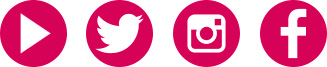
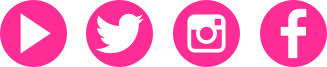
ajustes gerais nas paginas

diff --git a/style.css b/style.css
@@ -1,5 +1,5 @@
 /*
-Theme Name: teraptantricas
+Theme Name: tantricassp
 Theme URI: http://underscores.me/
 Author: Underscores.me
 Author URI: http://underscores.me/
@@ -40,7 +40,7 @@ Nicolas Gallagher and Jonathan Neal http://necolas.github.com/normalize.css/
     font-family: Helvetica Neue,Helvetica,Arial,sans-serif;
     font-size: 26px;
     font-weight: bold;
-    color: #b70456; }
+    color: #8f0351; }
   #page h2 {
     font-family: Helvetica Neue,Helvetica,Arial,sans-serif;
     margin: 0;
@@ -90,7 +90,7 @@ Nicolas Gallagher and Jonathan Neal http://necolas.github.com/normalize.css/
     -webkit-border-radius: 6px;
     -moz-border-radius: 6px;
     border-radius: 6px;
-    background-color: #b70456;
+    background-color: #8f0351;
     padding: 10px 45px;
     color: white;
     display: inline-block; }
@@ -222,7 +222,7 @@ Nicolas Gallagher and Jonathan Neal http://necolas.github.com/normalize.css/
           #page #header div.header-logo nav ul.menu-principal li a:hover {
             text-decoration: none; }
         #page #header div.header-logo nav ul.menu-principal li:hover {
-          background-color: #f2f1df; }
+          border-bottom: 2px solid #fe3191; }
   @media (max-width: 991px) {
     #page div.redes {
       text-align: left !important;
@@ -295,7 +295,7 @@ Nicolas Gallagher and Jonathan Neal http://necolas.github.com/normalize.css/
       border: 5px solid #e8edf1;
       margin: 5px; }
   #page div#content section#maps {
-    background-color: #b70456;
+    background-color: #8f0351;
     color: white; }
     #page div#content section#maps .detalhes-maps {
       padding: 25px 0; }
@@ -367,6 +367,8 @@ Nicolas Gallagher and Jonathan Neal http://necolas.github.com/normalize.css/
   #page div#content section#redes-bot {
     padding: 80px 0;
     background-color: white; }
+    #page div#content section#redes-bot h2 {
+      color: #8f0351; }
     #page div#content section#redes-bot .redes_sociais_bot {
       margin-bottom: 5px;
       height: 67px;
@@ -423,7 +425,7 @@ Nicolas Gallagher and Jonathan Neal http://necolas.github.com/normalize.css/
     text-align: left; }
     #page #footer div.footer-content {
       padding: 50px 0;
-      background-color: #b70456;
+      background-color: #8f0351;
       color: white; }
       #page #footer div.footer-content ul {
         padding: 0;

diff --git a/style.scss b/style.scss
@@ -1,5 +1,5 @@
 /*
-Theme Name: teraptantricas
+Theme Name: tantricassp
 Theme URI: http://underscores.me/
 Author: Underscores.me
 Author URI: http://underscores.me/
@@ -50,7 +50,7 @@ Nicolas Gallagher and Jonathan Neal http://necolas.github.com/normalize.css/
 		font-family: Helvetica Neue,Helvetica,Arial,sans-serif;
 		font-size: 26px;
 		font-weight: bold;
-		color:#b70456;
+		color:#8f0351;
 	}
 
 
@@ -117,7 +117,7 @@ Nicolas Gallagher and Jonathan Neal http://necolas.github.com/normalize.css/
 		-webkit-border-radius: 6px; 
 		-moz-border-radius: 6px; 
 		border-radius: 6px; 
-		background-color:#b70456;
+		background-color:#8f0351;
 		padding:10px 45px;
 		color:white;
 		display:inline-block		

diff --git a/_content.scss b/_content.scss
@@ -90,7 +90,7 @@ div#content{
 	}
 
 	section#maps{
-		background-color:#b70456;
+		background-color:#8f0351;
 		color: white;
 
 		.detalhes-maps{
@@ -202,6 +202,10 @@ div#content{
 	section#redes-bot{
 		padding:80px 0;	
 		background-color:white;
+
+		h2{
+			color:#8f0351;	
+		}
 	
 		.redes_sociais_bot{
 			margin-bottom: 5px;

diff --git a/_header.scss b/_header.scss
@@ -96,9 +96,10 @@
 					}
 				}
 
+
 				li:hover{
 
-					background-color:#f2f1df;
+					border-bottom:2px solid #fe3191;
 				}
     		}
     	}

diff --git a/_footer.scss b/_footer.scss
@@ -3,7 +3,7 @@
 
 	div.footer-content{
 		padding:50px 0;
-		background-color:#b70456;
+		background-color:#8f0351;
 		color:white;
 
 		ul{

diff --git a/index.php b/index.php
@@ -10,6 +10,43 @@ get_header(); ?>
 		</div>
 	</section>
 
+	<section id="sobre-home">
+		<div class="container">
+			<div class="row">
+				<div class="col-md-12">
+					<h1 class="small">Massagem Tântrica em São Paulo</h1>
+					<h2>Venha fazer uma Massagem Tântrica com as melhores terapeutas de São Paulo</h2>
+				</div>
+			</div> <br>
+			<div class="row">
+				<div class="col-md-6 text-left">
+					<p>
+						A Massagem Tântrica traz vários benefícios para o organismo, combate o stresse,  
+auxilia no tratamento de dores musculares e traz um relaxamento profundo, além 
+de aumentar a disposição e o vigor físico.
+					</p>
+					<p>
+						Nossas terapeutas tântricas aplicam tanto técnicas milenares da Massagem 
+Tântrica como cada uma desenvolveu uma técnica de massagem personalizada e 
+especial para cada cliente.
+					</p>
+				</div>
+				<div class="col-md-6 text-left">
+					<p>
+						Todas as nossas terapeutas tântricas são habilitadas e treinadas nas mais 
+diversas técnicas orientais e ocidentais da Massagem Tântrica, tudo isso para 
+tornar sua sessão de massagem mais agradável e prazerosa.
+					</p>
+					<p>
+						A Massgem Tântrica é uma técnica ao mesmo tempo sensual e muito prazerosa. 
+Buscamos despertar para o prazer através do toque em harmonia com os cinco 
+sentidos, tato, olfato, paladar, audição, visão e ainda despertar outros sentidos.
+					</p>
+				</div>
+			</div>
+		</div>
+	</section>
+
 	<section id="servicos">
 		<div class="container">
 			<?php
@@ -53,38 +90,36 @@ get_header(); ?>
 		<div class="container">
 			<div class="row">
 				<div class="col-md-7 text-left">
-					<h2 class="amarelo">Terapeutas Tântricas</h2>
-					<p class="">A Terapeutas Tântricas é um espaço terapêutico que tem a Massagem Tântrica como 
-						a sua principal ferramenta para a busca da evolução espiritual.<br>
-						Com uma equipe cuidadosamente selecionada, nos destacamos pelo profissionalismo 
-						e pela alta qualidade no atendimento.<br>
-						Seja bem vindo(a)! 
+					<h2 class="amarelo">Massagem Tântrica em São Paulo</h2>
+					<p class="">Não somos uma clínica ou casa de massagem!<br>
+						Nós somos profissionais autônomas especializadas em Massagem Tântrica 
+sem nenhuma conotação sexual.<br>
+						Atendemos homens, mulheres e casais!
 					</p>
 					<ul>
-						<li>Localizada no centro de São Paulo</li>
-						<li>Terapeutas especialistas com vivência tântrica</li>
-						<li>Ambiente aconchegante e discreto</li>
-						<li>Próximo ao metrô Sé</li>
+						<li>Massagem Tântrica</li>
+						<li>Massagem Relaxante</li>
+						<li>As melhores terapeutas tântricas de São Paulo</li>
+						<li>Massagem personalizada e especial para cada cliente</li>
 					</ul>
-					<a href="<?php echo esc_url( home_url( '/' ) )."fotos"; ?>" class="btn-amarelo">CONFIRA</a>
+					<a href="<?php echo esc_url( home_url( '/' ) )."fotos"; ?>" class="btn-amarelo">CONTATO</a>
 				</div>
 				<div class="col-md-5 text-left">
-					<h4>Fotos</h4>
 					
 					<div class="row">
 						<div class="col-md-6">
-							<img class="e-claro img-responsive" src="<?php echo dirname( get_bloginfo('stylesheet_url'))."/images/banner1.jpg"; ?>"/>
+							<img class="e-claro img-responsive" src="<?php echo dirname( get_bloginfo('stylesheet_url'))."/images/banner-3.jpg"; ?>"/>
 						</div>
 						<div class="col-md-6">
-							<img class="e-claro img-responsive" src="<?php echo dirname( get_bloginfo('stylesheet_url'))."/images/banner1.jpg"; ?>"/>
+							<img class="e-claro img-responsive" src="<?php echo dirname( get_bloginfo('stylesheet_url'))."/images/banner-3.jpg"; ?>"/>
 						</div>
 					</div>
 					<div class="fotos-sobre row">	
 						<div class="col-md-6">
-							<img class="e-claro img-responsive" src="<?php echo dirname( get_bloginfo('stylesheet_url'))."/images/banner1.jpg"; ?>"/>
+							<img class="e-claro img-responsive" src="<?php echo dirname( get_bloginfo('stylesheet_url'))."/images/banner-3.jpg"; ?>"/>
 						</div>
 						<div class="col-md-6">
-							<img class="e-claro img-responsive" src="<?php echo dirname( get_bloginfo('stylesheet_url'))."/images/banner1.jpg"; ?>"/>
+							<img class="e-claro img-responsive" src="<?php echo dirname( get_bloginfo('stylesheet_url'))."/images/banner-3.jpg"; ?>"/>
 						</div>
 					</div>
 			

diff --git a/page-sobre.php b/page-sobre.php
@@ -2,33 +2,46 @@
 get_header(); ?>
 
 <div id="content">
-	<section id="sobre">
-		<h1 class="title-full small"><div class="animated bounceIn">Quem Somos</div></h1>
+	<section id="fotos-sobre">
 		<div class="container">
 			<div class="row">
-				<div class="col-md-12 text-left">
-					<p>A Terapeutas Tântricas é um espaço terapêutico que tem a Massagem Tântrica como a sua principal ferramenta para a busca da evolução espiritual.<br>
-					Com uma equipe cuidadosamente selecionada, nos destacamos pelo profissionalismo e pela alta qualidade no atendimento.<br>
-					Todas as terapeutas são habilitadas e treinadas nas mais diversas técnicas de Massagem Tântrica para tornar sua sessão mais agradável, natural e prazerosa.
-
-
-					</p><br>
-					<h2 class="amarelo">Ambiente</h2>
-					<ul>
-						<li>Localizada no centro de São Paulo</li>
-						<li>Terapeutas especialistas com vivência tântrica</li>
-						<li>Ambiente aconchegante e discreto</li>
-						<li>Próximo ao metrô Sé</li>
-					</ul><br>
-					<p>
-						A Massagem Tântrica é realizada em ambiente tranquilo, com temperatura agradável, luz natural, música suave, óleos vegetais, aromas suaves e agradáveis. <br>
-						O nosso convite é para que você venha buscar sua evolução espiritual através da Massagem Tântrica.<br><br>
-
-						Seja bem vindo(a)! 
+				<div class="col-md-7 text-left">
+					<h1 class="small">Tântrica SP</h2>
+					<p>Não somos uma clínica ou casa de massagem!<br>
+						Nós somos profissionais autônomas especializadas em Massagem Tântrica 
+sem nenhuma conotação sexual.<br>
+						Atendemos homens, mulheres e casais!
 					</p>
+					<ul>
+						<li>Massagem Tântrica</li>
+						<li>Massagem Relaxante</li>
+						<li>As melhores terapeutas tântricas de São Paulo</li>
+						<li>Massagem personalizada e especial para cada cliente</li>
+					</ul>
+					<a href="<?php echo esc_url( home_url( '/' ) )."fotos"; ?>" class="btn-saiba-mais">CONTATO</a>
+				</div>
+				<div class="col-md-5 text-left">
+					
+					<div class="row">
+						<div class="col-md-6">
+							<img class="e-claro img-responsive" src="<?php echo dirname( get_bloginfo('stylesheet_url'))."/images/banner-3.jpg"; ?>"/>
+						</div>
+						<div class="col-md-6">
+							<img class="e-claro img-responsive" src="<?php echo dirname( get_bloginfo('stylesheet_url'))."/images/banner-3.jpg"; ?>"/>
+						</div>
+					</div>
+					<div class="fotos-sobre row">	
+						<div class="col-md-6">
+							<img class="e-claro img-responsive" src="<?php echo dirname( get_bloginfo('stylesheet_url'))."/images/banner-3.jpg"; ?>"/>
+						</div>
+						<div class="col-md-6">
+							<img class="e-claro img-responsive" src="<?php echo dirname( get_bloginfo('stylesheet_url'))."/images/banner-3.jpg"; ?>"/>
+						</div>
+					</div>
+			
 				</div>
 			</div>	
-		</div>
+		</div>	
 	</section>
 
 	<section id="maps">

diff --git a/footer.php b/footer.php
@@ -3,7 +3,7 @@
 			<div class="container">
 				<div class="row">
 					<div class="col-md-6 col-md-offset-3 text-center">
-						<h2 class="redes">Novidades</h2>
+						<h2 class="redes">Novidades da Tântrica SP</h2>
 						<h5>Receba todas as nossas novidades e promoções</h5>	
 					</div>
 				</div><!-- .row -->
@@ -13,7 +13,7 @@
 			<div class="container">
 				<div class="row">
 					<div class="col-md-12">
-						&copy; Copyright <?php echo date('Y') ?> -  Terapeutas Massagens Tântricas  | <a target="_blank" href="http://agenciarino.com.br/">Site desenvolvido pela Agência Rino.</a>
+						&copy; Copyright <?php echo date('Y') ?> -  Tântrica SP   | <a target="_blank" href="http://agenciarino.com.br/">Site desenvolvido pela Agência Rino.</a>
 					</div>
 				</div>	
 			</div>	

diff --git a/template-parts/redes-bot.php b/template-parts/redes-bot.php
@@ -2,8 +2,8 @@
 	<div class="container">
 		<div class="row">
 			<div class="col-md-12">
-				<h2>Terapeutas Massagem Tântrica nas redes sociais</h2>
-				<h4>Acompanhe as Terapeutas Massagem Tântrica nas redes sociais e confira todas as nossas novidades.</h4>
+				<h2>Tântrica SP nas redes sociais</h2>
+				<h4>Acompanhe a Tântrica SP nas redes sociais e confira todas as nossas novidades.</h4>
 			</div>
 		</div><!-- .row -->
 		<div class="row">

diff --git a/page-terapeutas.php b/page-terapeutas.php
@@ -4,6 +4,7 @@ get_header(); ?>
 <div id="content">
 	<div class="container">
 		<h1 class="small">Terapeutas</h1>
+		<h4>Confira quem são as melhore terapeutas de Massagem Tântrica de São Paulo.</h4>
 		<?php 
 		$paged = ( get_query_var( 'paged' ) ) ? absint( get_query_var( 'paged' ) ) : 1;
 
